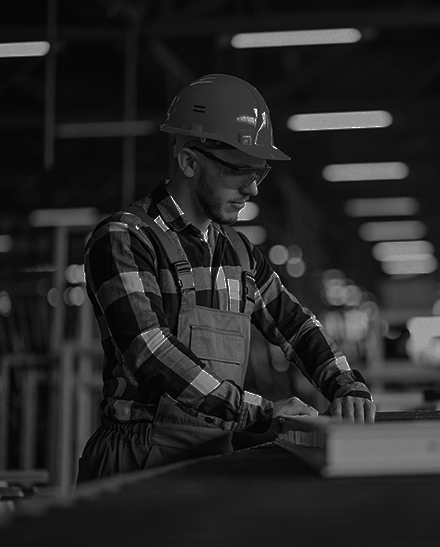
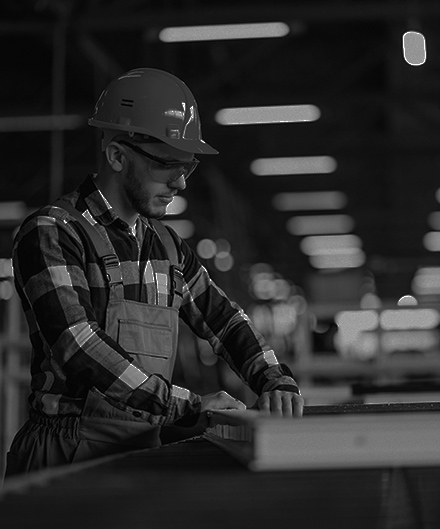
change background image in container header in mobiel version

diff --git a/main.css b/main.css
@@ -392,8 +392,8 @@ body {
     flex-direction: column;
 }
 
-.container_header {
-    background: url(src/worker_440_mobile.jpg);
+.container__header {
+    background: url("src/worker_440_mobile.jpg");
 }
 
 .container__photovoltaics {
